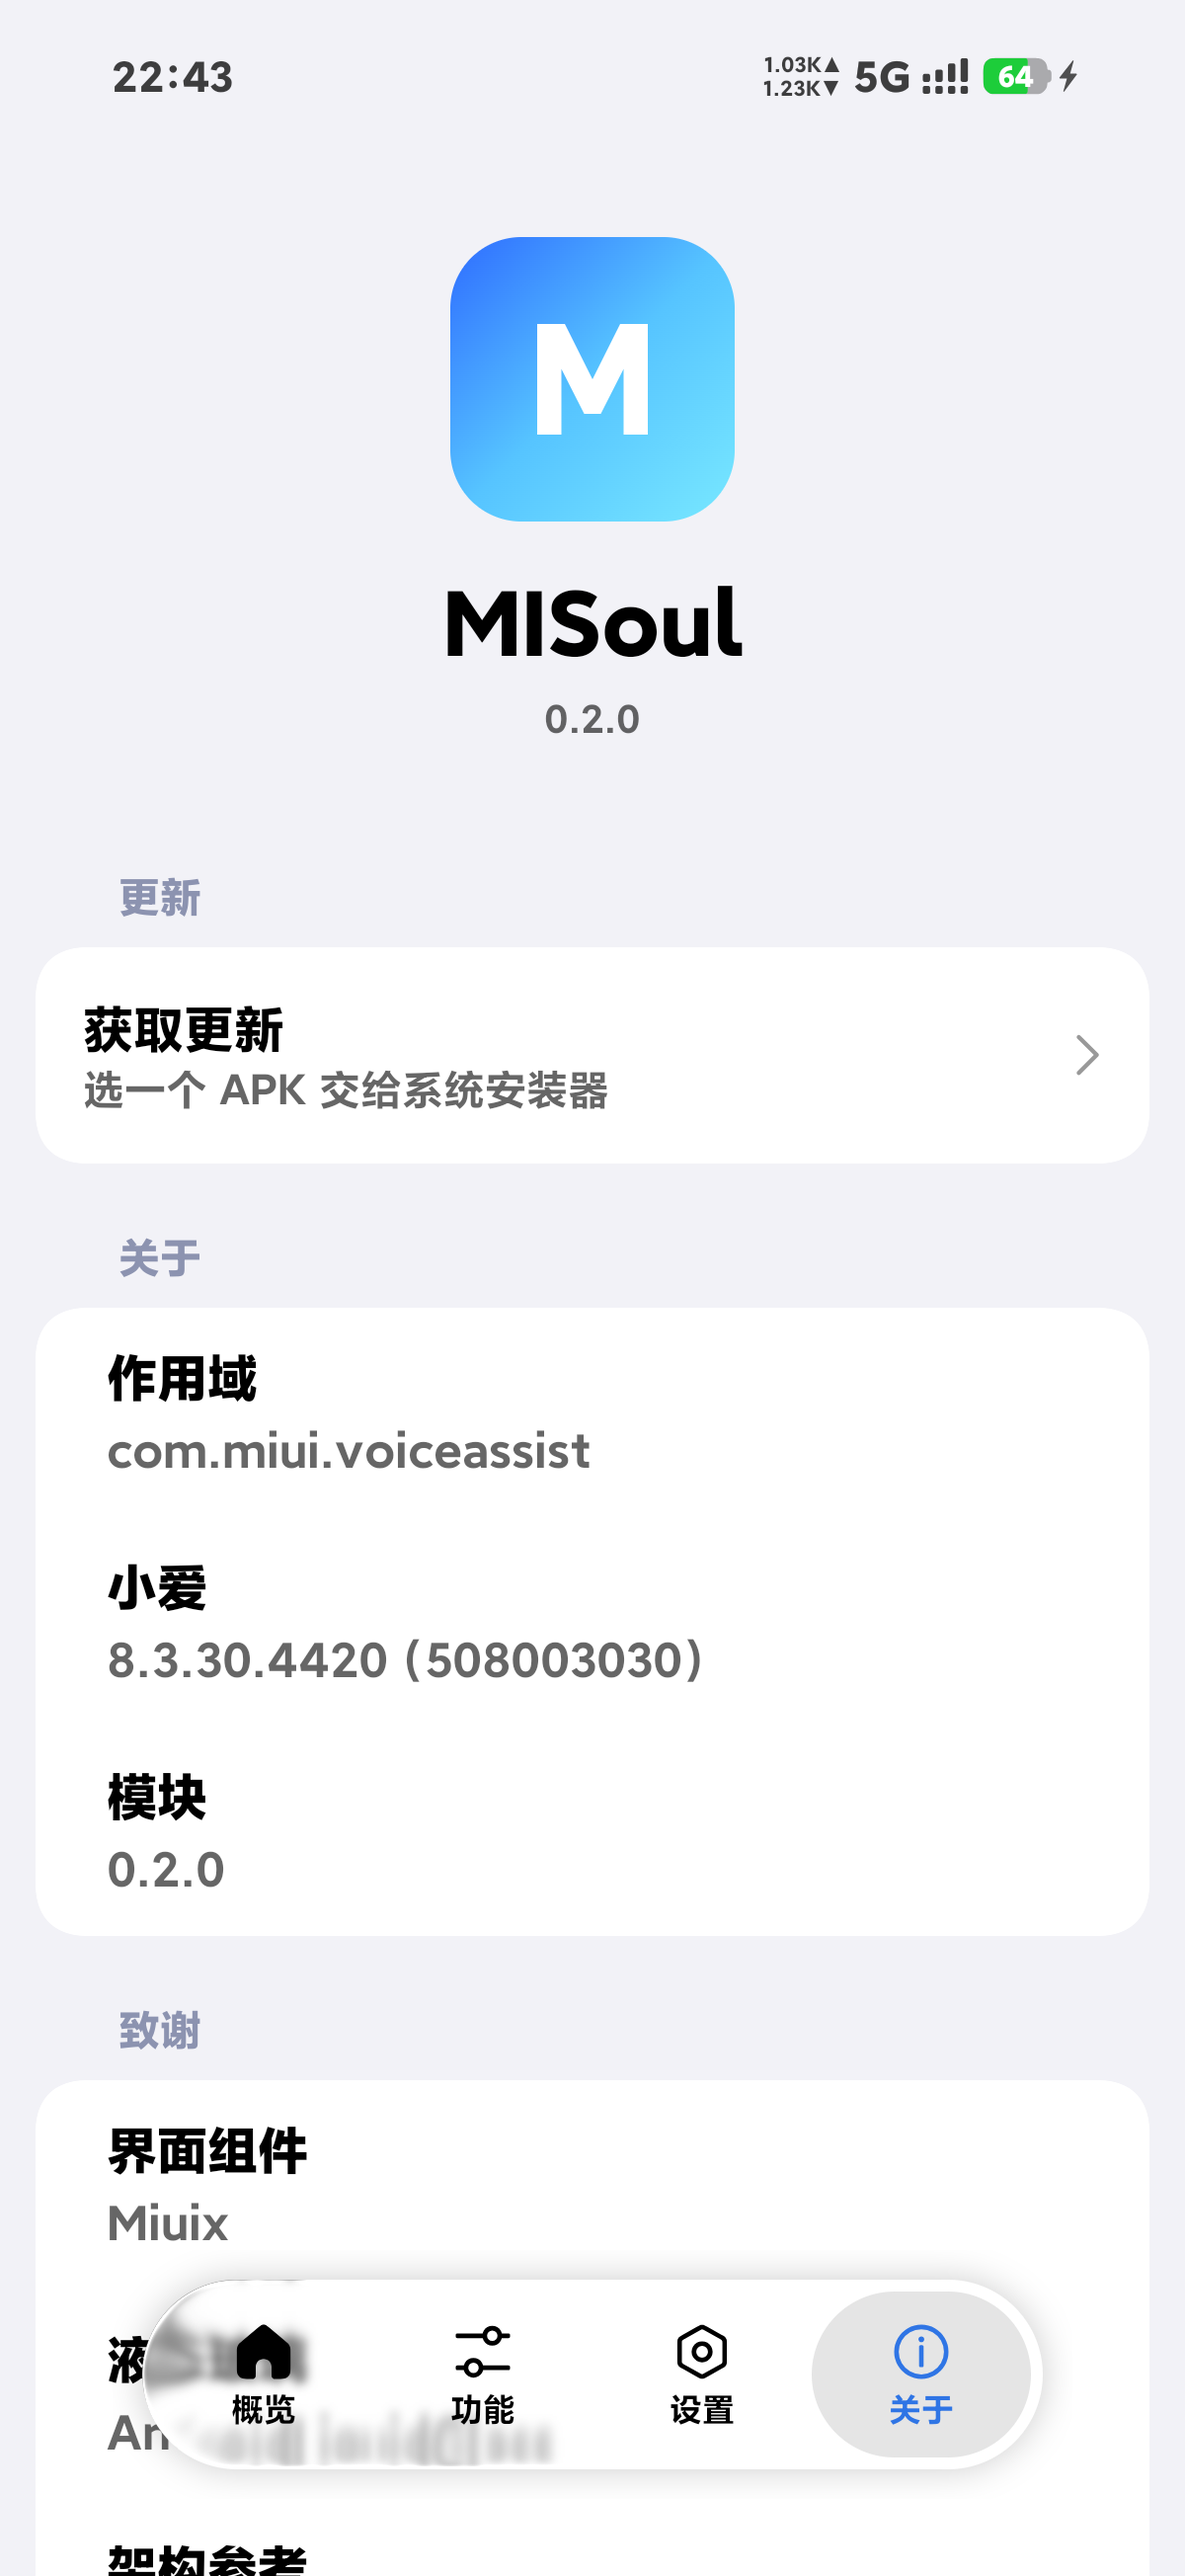
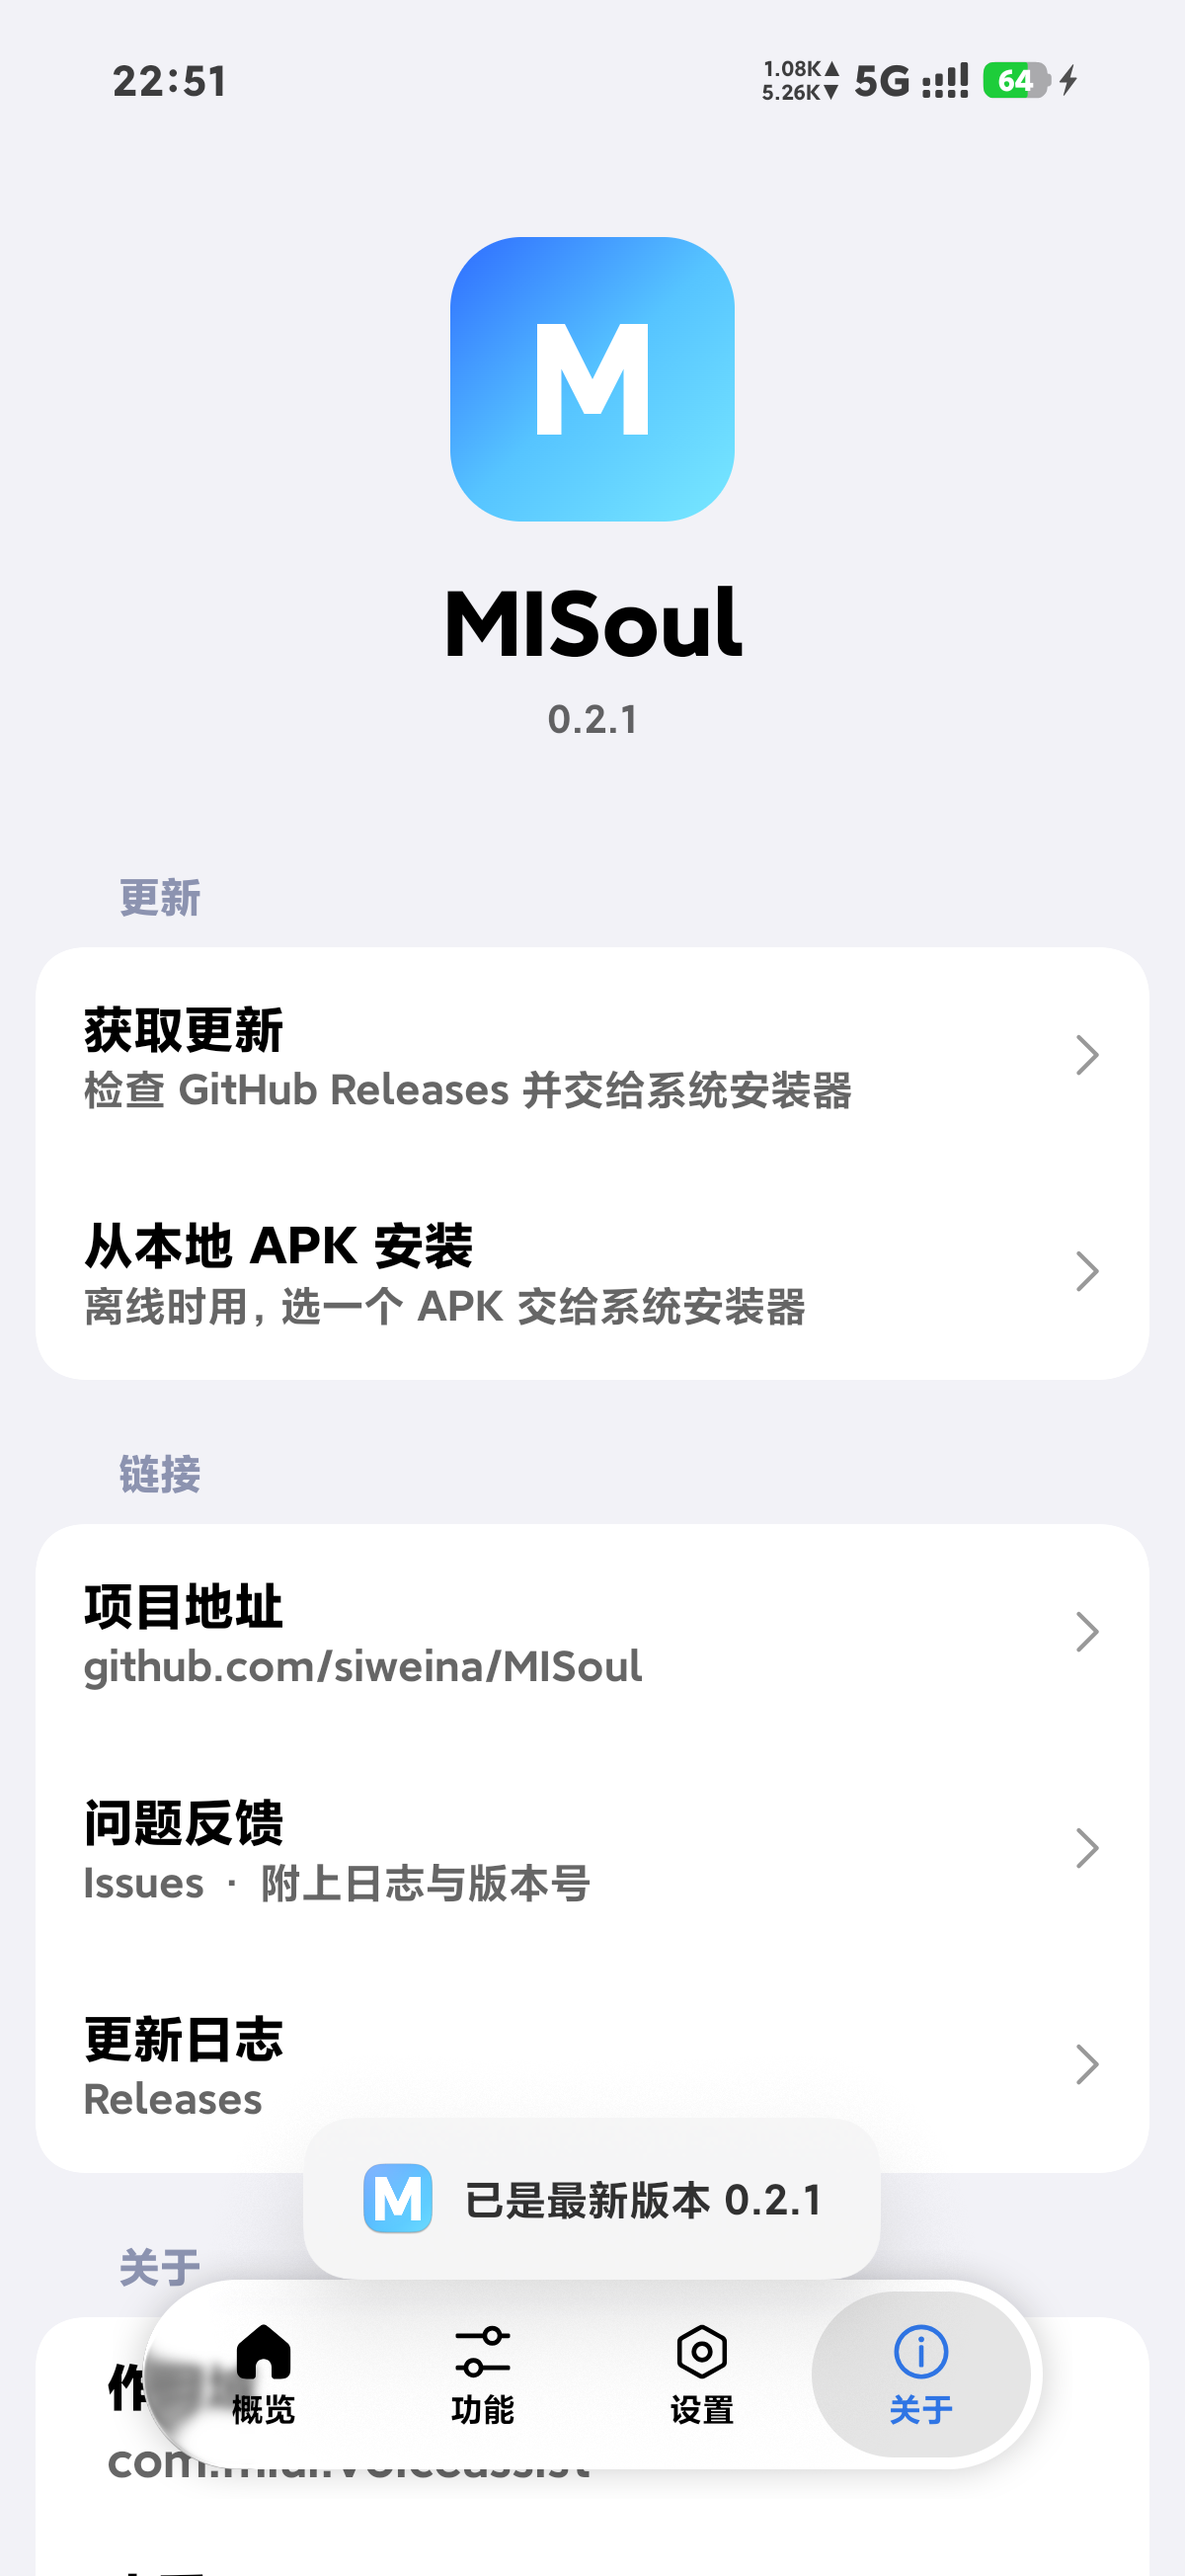
feat: 0.2.1 —— 检查更新走 releases.atom、关于页补链接、README 加徽章
- 新增 UpdateApi：读 releases.atom 取最新 tag，按 MISoul-<tag>.apk 约定下载后交系统安装器
  （不用 api.github.com：未登录按 IP 限流 60 次/小时，手机上容易撞 403）
- 关于页：获取更新 / 从本地 APK 安装 / 项目地址 / 问题反馈 / 更新日志
- 包名改为 com.siweina.misoul，release 签名走仓库外的 keystore.properties
- README 增加徽章、截图与发布命名约定

diff --git a/app/src/main/java/com/siweina/misoul/UpdateApi.kt b/app/src/main/java/com/siweina/misoul/UpdateApi.kt
@@ -1,0 +1,145 @@
+package com.siweina.misoul
+
+import android.content.Context
+import android.util.Xml
+import org.xmlpull.v1.XmlPullParser
+import java.io.File
+import java.io.FileOutputStream
+import java.io.StringReader
+import java.net.HttpURLConnection
+import java.net.URL
+
+/**
+ * 从 GitHub Releases 取最新版本。
+ *
+ * 故意**不用 api.github.com**：未登录的 API 按 IP 限流 60 次/小时，手机在移动网络下
+ * 很容易撞上 403。改用 releases.atom（普通网页、无限流），从第一个 entry 里取 tag，
+ * APK 地址按发布约定拼：`MISoul-<tag>.apk`。
+ */
+object UpdateApi {
+
+    const val REPO = "siweina/MISoul"
+    private const val FEED = "https://github.com/$REPO/releases.atom"
+    private const val DOWNLOAD = "https://github.com/$REPO/releases/download"
+    private const val USER_AGENT = "MISoul-updater"
+
+    data class Release(
+        val tag: String,
+        val name: String,
+        val notes: String,
+        val apkUrl: String,
+        val prerelease: Boolean,
+    )
+
+    sealed interface Result {
+        data class Found(val release: Release) : Result
+        data object UpToDate : Result
+        data class Failed(val message: String) : Result
+    }
+
+    fun apkUrl(tag: String): String = "$DOWNLOAD/$tag/MISoul-$tag.apk"
+
+    fun check(currentVersion: String): Result {
+        val xml = try {
+            get(FEED)
+        } catch (t: Throwable) {
+            return Result.Failed(t.message ?: "网络请求失败")
+        }
+        val tag = try {
+            latestTag(xml)
+        } catch (t: Throwable) {
+            null
+        } ?: return Result.Failed("解析 releases 失败")
+
+        if (!isNewer(tag, currentVersion)) return Result.UpToDate
+
+        return Result.Found(
+            Release(
+                tag = tag,
+                name = tag,
+                notes = "",
+                apkUrl = apkUrl(tag),
+                prerelease = tag.contains("beta") || tag.contains("alpha") || tag.contains("rc"),
+            ),
+        )
+    }
+
+    /** 下载到 cache/updates/，返回文件；跳转由 HttpURLConnection 自动跟随。 */
+    fun download(context: Context, release: Release): File? {
+        val dir = File(context.cacheDir, "updates").apply { mkdirs() }
+        val target = File(dir, "app-update.apk")
+        return try {
+            val connection = (URL(release.apkUrl).openConnection() as HttpURLConnection).apply {
+                connectTimeout = 20_000
+                readTimeout = 60_000
+                instanceFollowRedirects = true
+                setRequestProperty("User-Agent", USER_AGENT)
+            }
+            if (connection.responseCode !in 200..299) {
+                android.util.Log.w("MISoul", "download HTTP ${connection.responseCode} ${release.apkUrl}")
+                return null
+            }
+            connection.inputStream.use { input ->
+                FileOutputStream(target).use { output -> input.copyTo(output) }
+            }
+            target
+        } catch (t: Throwable) {
+            android.util.Log.w("MISoul", "download failed: $t")
+            null
+        }
+    }
+
+    private fun latestTag(xml: String): String? {
+        val parser: XmlPullParser = Xml.newPullParser()
+        parser.setInput(StringReader(xml))
+        var event = parser.eventType
+        var inEntry = false
+        while (event != XmlPullParser.END_DOCUMENT) {
+            if (event == XmlPullParser.START_TAG) {
+                when (parser.name) {
+                    "entry" -> inEntry = true
+                    "link" -> if (inEntry) {
+                        val href = parser.getAttributeValue(null, "href").orEmpty()
+                        val marker = "/releases/tag/"
+                        if (href.contains(marker)) return href.substringAfter(marker)
+                    }
+                }
+            } else if (event == XmlPullParser.END_TAG && parser.name == "entry") {
+                inEntry = false
+            }
+            event = parser.next()
+        }
+        return null
+    }
+
+    private fun get(url: String): String {
+        val connection = (URL(url).openConnection() as HttpURLConnection).apply {
+            connectTimeout = 15_000
+            readTimeout = 20_000
+            setRequestProperty("User-Agent", USER_AGENT)
+            setRequestProperty("Accept", "application/atom+xml, text/html")
+        }
+        val code = connection.responseCode
+        if (code !in 200..299) {
+            android.util.Log.w("MISoul", "feed HTTP $code")
+            throw java.io.IOException("HTTP $code")
+        }
+        return connection.inputStream.bufferedReader().use { it.readText() }
+    }
+
+    /** 只比较数字段：0.2.1 > 0.2.0，1.0 > 0.9.9。 */
+    internal fun isNewer(remote: String, local: String): Boolean {
+        val a = numbers(remote)
+        val b = numbers(local)
+        for (i in 0 until maxOf(a.size, b.size)) {
+            val x = a.getOrElse(i) { 0 }
+            val y = b.getOrElse(i) { 0 }
+            if (x != y) return x > y
+        }
+        return false
+    }
+
+    private fun numbers(version: String): List<Int> =
+        version.trim().removePrefix("v").split(".", "-", "+")
+            .mapNotNull { part -> part.takeWhile { it.isDigit() }.toIntOrNull() }
+}

diff --git a/app/src/main/java/com/siweina/misoul/MainActivity.kt b/app/src/main/java/com/siweina/misoul/MainActivity.kt
@@ -122,6 +122,8 @@ private class UiState(
     val iconHidden: Boolean,
     val setIconHidden: (Boolean) -> Unit,
     val pickUpdate: () -> Unit,
+    val checkUpdate: () -> Unit,
+    val openLink: (String) -> Unit,
     val info: List<InfoRow>,
     val xiaoaiVersion: String,
     val moduleVersion: String,
@@ -156,6 +158,7 @@ private fun App(refreshTick: Int) {
     // 否则跨页滚动经过每一页时它都会动一次，玻璃每动一次就要重画。
     var selectedTab by remember { mutableIntStateOf(0) }
     var pageWidthPx by remember { mutableStateOf(0f) }
+    var checkingUpdate by remember { mutableStateOf(false) }
 
     var name by remember { mutableStateOf("") }
     var soul by remember { mutableStateOf("") }
@@ -228,6 +231,59 @@ private fun App(refreshTick: Int) {
             ).show()
         },
         pickUpdate = { pickApk.launch(arrayOf("application/vnd.android.package-archive")) },
+        checkUpdate = {
+            if (!checkingUpdate) {
+                checkingUpdate = true
+                scope.launch {
+                    val result = withContext(Dispatchers.IO) {
+                        UpdateApi.check(BuildConfig.VERSION_NAME)
+                    }
+                    when (result) {
+                        is UpdateApi.Result.UpToDate -> Toast.makeText(
+                            context,
+                            "已是最新版本 ${BuildConfig.VERSION_NAME}",
+                            Toast.LENGTH_SHORT,
+                        ).show()
+
+                        is UpdateApi.Result.Failed -> Toast.makeText(
+                            context,
+                            "检查失败：${result.message}",
+                            Toast.LENGTH_LONG,
+                        ).show()
+
+                        is UpdateApi.Result.Found -> {
+                            Toast.makeText(
+                                context,
+                                "发现 ${result.release.tag}，开始下载",
+                                Toast.LENGTH_SHORT,
+                            ).show()
+                            val file = withContext(Dispatchers.IO) {
+                                UpdateApi.download(context, result.release)
+                            }
+                            if (file == null) {
+                                Toast.makeText(context, "下载失败", Toast.LENGTH_SHORT).show()
+                            } else if (!UpdateInstaller.handOff(context, file)) {
+                                Toast.makeText(context, "没有应用能打开 APK", Toast.LENGTH_SHORT)
+                                    .show()
+                            }
+                        }
+                    }
+                    checkingUpdate = false
+                }
+            }
+        },
+        openLink = { url ->
+            runCatching {
+                context.startActivity(
+                    android.content.Intent(
+                        android.content.Intent.ACTION_VIEW,
+                        android.net.Uri.parse(url),
+                    ).addFlags(android.content.Intent.FLAG_ACTIVITY_NEW_TASK),
+                )
+            }.onFailure {
+                Toast.makeText(context, "没有浏览器能打开链接", Toast.LENGTH_SHORT).show()
+            }
+        },
         info = info,
         xiaoaiVersion = xiaoaiVersion,
         moduleVersion = moduleVersion,
@@ -613,8 +669,30 @@ private fun AboutPage(state: UiState, bottomPadding: Dp) {
         Section("更新") {
             ArrowPreference(
                 title = "获取更新",
-                summary = "选一个 APK 交给系统安装器",
+                summary = "检查 GitHub Releases 并交给系统安装器",
+                onClick = state.checkUpdate,
+            )
+            ArrowPreference(
+                title = "从本地 APK 安装",
+                summary = "离线时用，选一个 APK 交给系统安装器",
                 onClick = state.pickUpdate,
+            )
+        }
+        Section("链接") {
+            ArrowPreference(
+                title = "项目地址",
+                summary = "github.com/${UpdateApi.REPO}",
+                onClick = { state.openLink("https://github.com/${UpdateApi.REPO}") },
+            )
+            ArrowPreference(
+                title = "问题反馈",
+                summary = "Issues · 附上日志与版本号",
+                onClick = { state.openLink("https://github.com/${UpdateApi.REPO}/issues") },
+            )
+            ArrowPreference(
+                title = "更新日志",
+                summary = "Releases",
+                onClick = { state.openLink("https://github.com/${UpdateApi.REPO}/releases") },
             )
         }
         Section("关于") {

diff --git a/README.md b/README.md
@@ -1,6 +1,17 @@
 # MISoul
 
+<div align="center">
+
+![release](https://img.shields.io/github/v/release/siweina/MISoul?include_prereleases&style=flat-square)
+![downloads](https://img.shields.io/github/downloads/siweina/MISoul/total?style=flat-square)
+![license](https://img.shields.io/github/license/siweina/MISoul?style=flat-square)
+![platform](https://img.shields.io/badge/Android-13%2B-3DDC84?style=flat-square&logo=android&logoColor=white)
+![api](https://img.shields.io/badge/libxposed-API%20102-blue?style=flat-square)
+
+</div>
+
 把**超级小爱**的人格换成你自己的 —— 一个 LSPosed 模块。
+
 
 不改小爱的任何文件、不重新签名 APK、不进 Recovery：模块只在 `com.miui.voiceassist` 的内存里把人格文本换掉。关掉开关就立刻回到官方人格，卸载即彻底消失。
 
@@ -60,6 +71,17 @@ adb logcat | grep MISoul
 
 数据目录里小爱自己的文件不会被改，`soul.md` 仍是官方内容——替换只发生在内存里。
 
+## 更新
+
+关于页的「获取更新」会读取 [releases.atom](https://github.com/siweina/MISoul/releases.atom)（普通网页，不限流；不用 api.github.com，因为未登录的 API 按 IP 限流 60 次/小时），发现新版本就下载 APK 并交给系统安装器。
+
+发布时请保持附件命名约定，否则自动更新拼不出下载地址：
+
+```
+MISoul-<tag>.apk     例如  MISoul-v0.2.1-beta.1.apk
+```
+
+离线时可以用「从本地 APK 安装」手动选择文件。
 ## 已知限制
 
 - 混淆名（`rs.a`、`ck.o0`）随小爱版本变化，升级后需要适配；模块会记录 `hook skipped`
